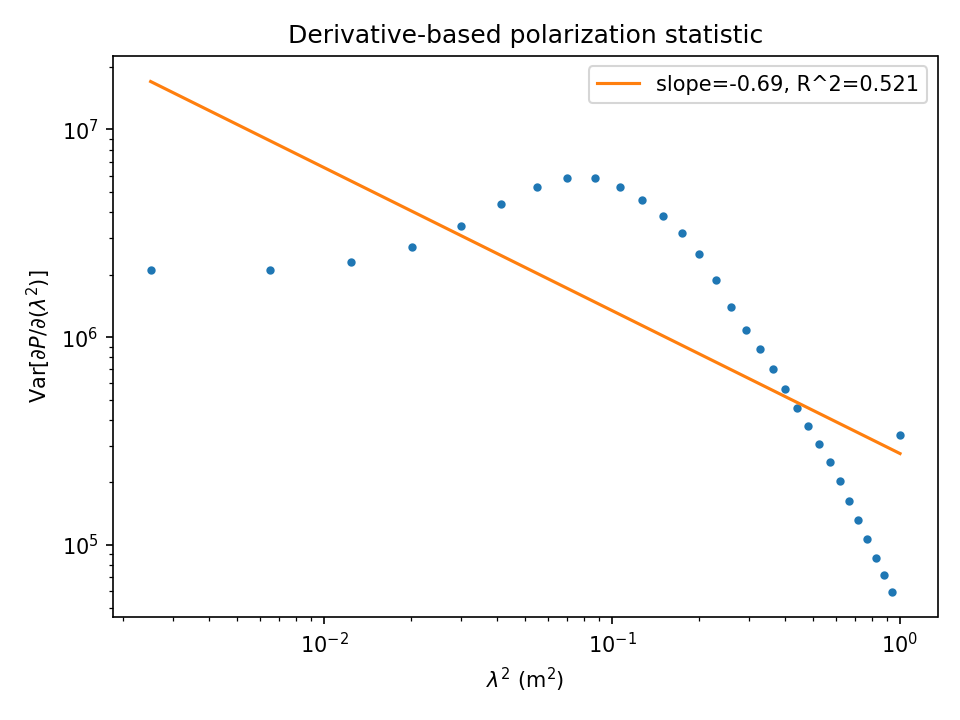
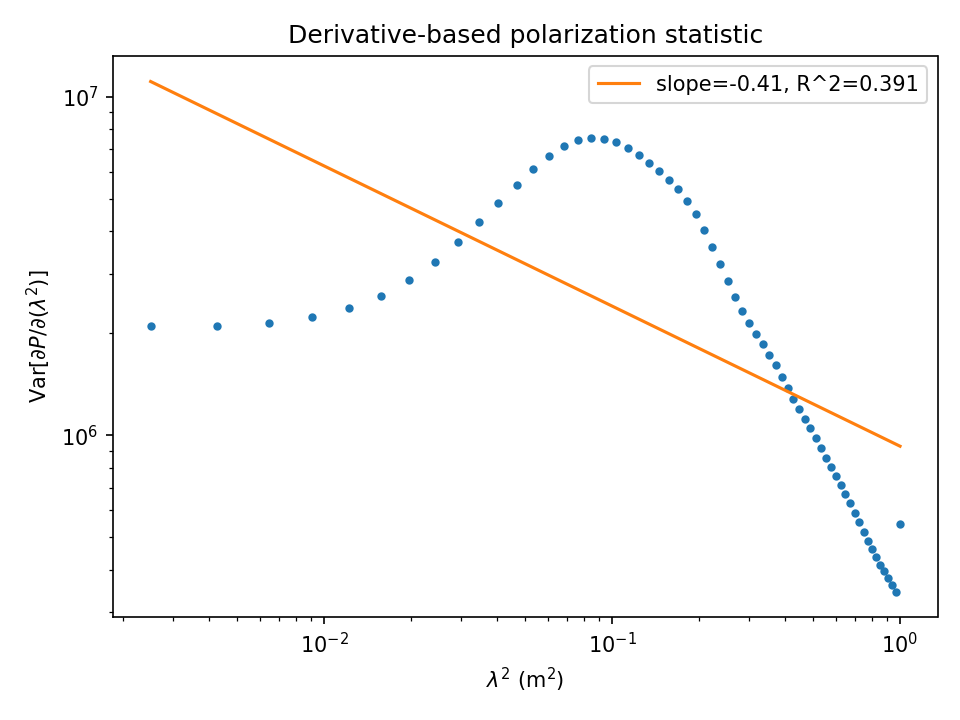
Update derivative simulation outputs and adjust parameters
This commit modifies the derivative simulation output files, updating the slope, intercept, and r2 values in DER_out_fit.json. The DER_out_var_dP.csv file is expanded with additional data points, and the scale factor in plot_derivative_results.py is adjusted to improve the variance calculation. The number of lambda values in derivative_simulation.py is increased from 32 to 64 for enhanced resolution. Additionally, binary output files DER_out_var_dP.png and derivative_plot.png are updated to reflect these changes.

diff --git a/LP16_measures/derivative_simulation/plot_derivative_results.py b/LP16_measures/derivative_simulation/plot_derivative_results.py
@@ -27,14 +27,14 @@ def plot_derivative_results(lambda2, var_dP, fit_results, output_file="derivativ
         lambda2_ref = np.logspace(np.log10(lambda2_min_ref), 
                                   np.log10(lambda2_max_ref), 100)
 
-        scale_factor = lambda2[lambda2 > 0].min() * 20000000
+        scale_factor = lambda2[lambda2 > 0].min() * 120000000
 
-        var_ref = scale_factor * lambda2_ref**(-8/3)
+        var_ref = scale_factor * lambda2_ref**(-5/3)
 
         print(var_dP[-1])
         
         plt.loglog(lambda2_ref, var_ref, ':', linewidth=2, 
-                  label='-8/3', color='green')
+                  label='-5/3', color='green')
     
     plt.xlabel(r'$\lambda^2$ (m$^2$)', fontsize=12)
     plt.ylabel(r'$\mathrm{Var}\!\left[\frac{\partial P}{\partial (\lambda^2)}\right]$', fontsize=14)

diff --git a/LP16_measures/derivative_simulation/derivative_simulation.py b/LP16_measures/derivative_simulation/derivative_simulation.py
@@ -65,7 +65,7 @@ def main():
     h5_path = r"D:\Рабочая папка\GitHub\AstroTurbulence\faradays_angles_stats\lp_structure_tests\synthetic_kolmogorov_normal.h5"
     lam_min = 0.05
     lam_max = 1.0
-    nlam = 32
+    nlam = 64
     kfaraday = 1.0
     emissivity = "density"
     zaxis = 0
